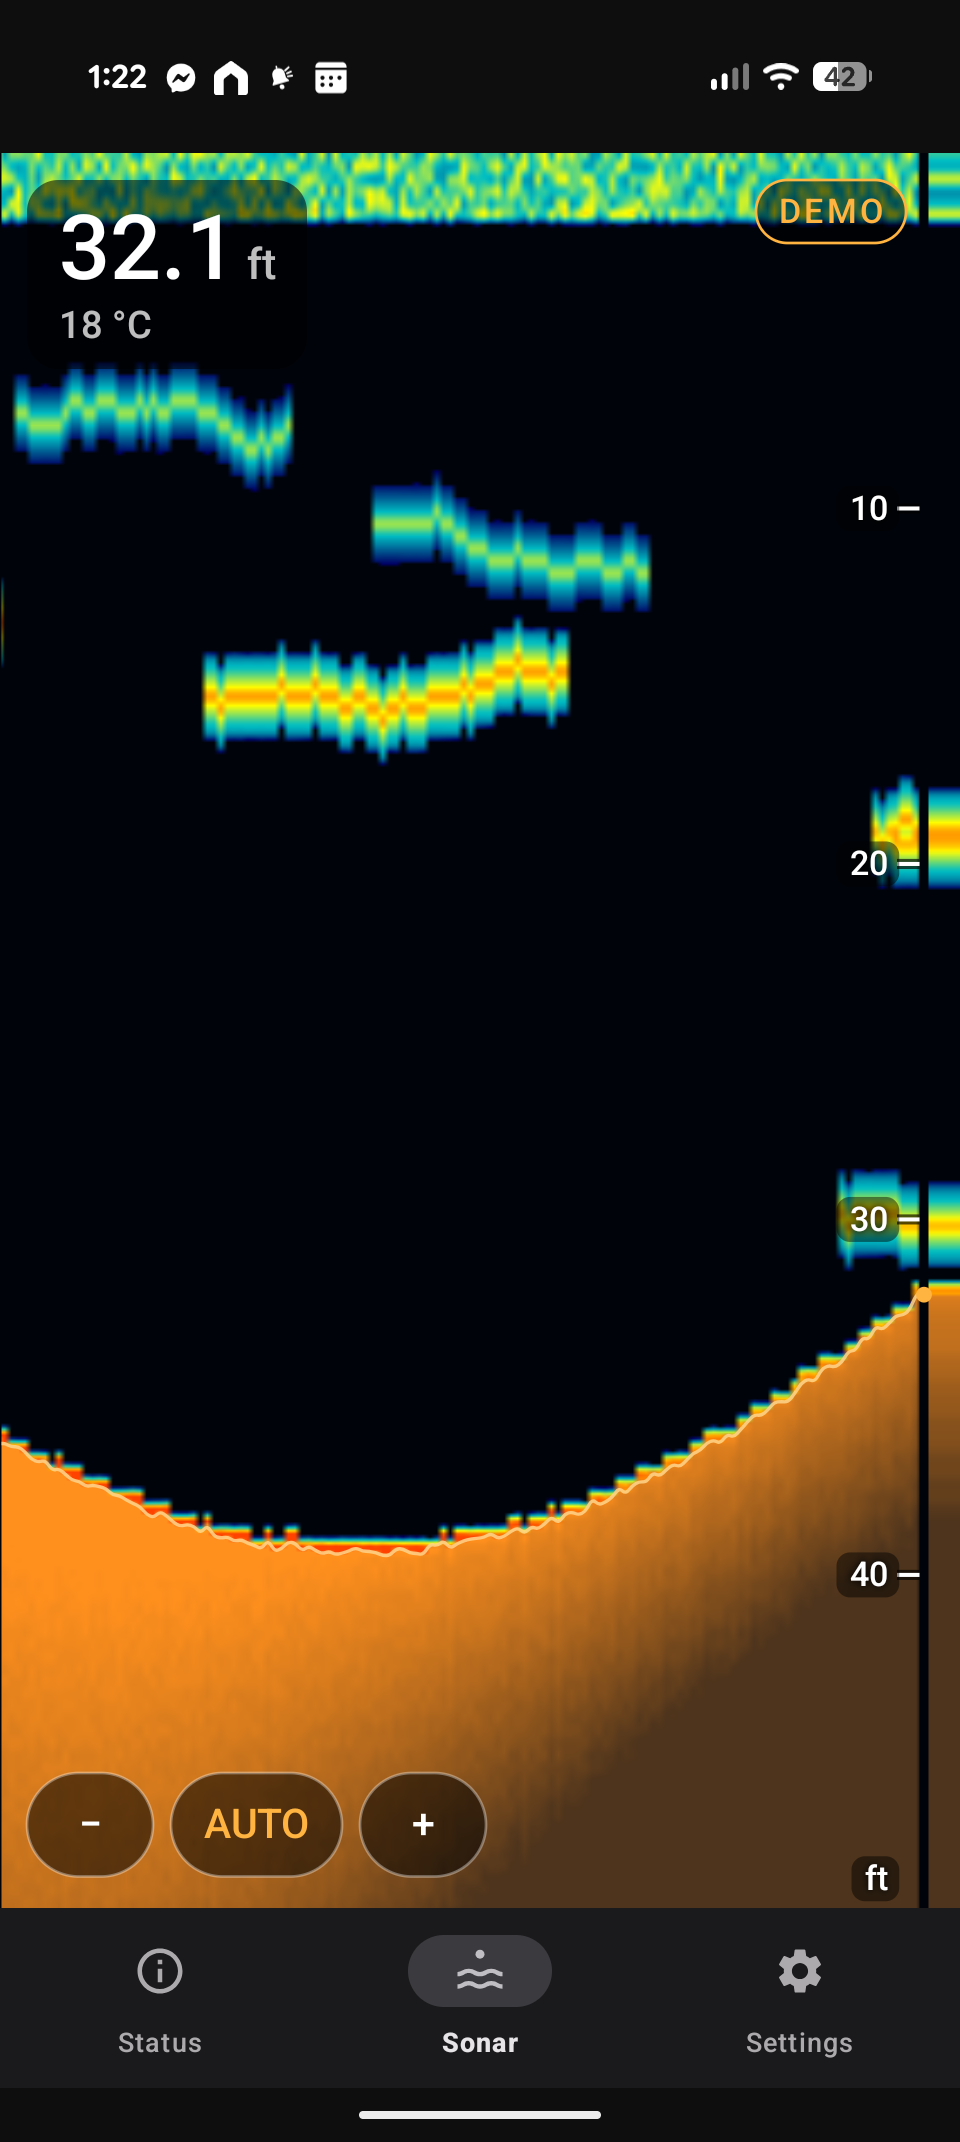
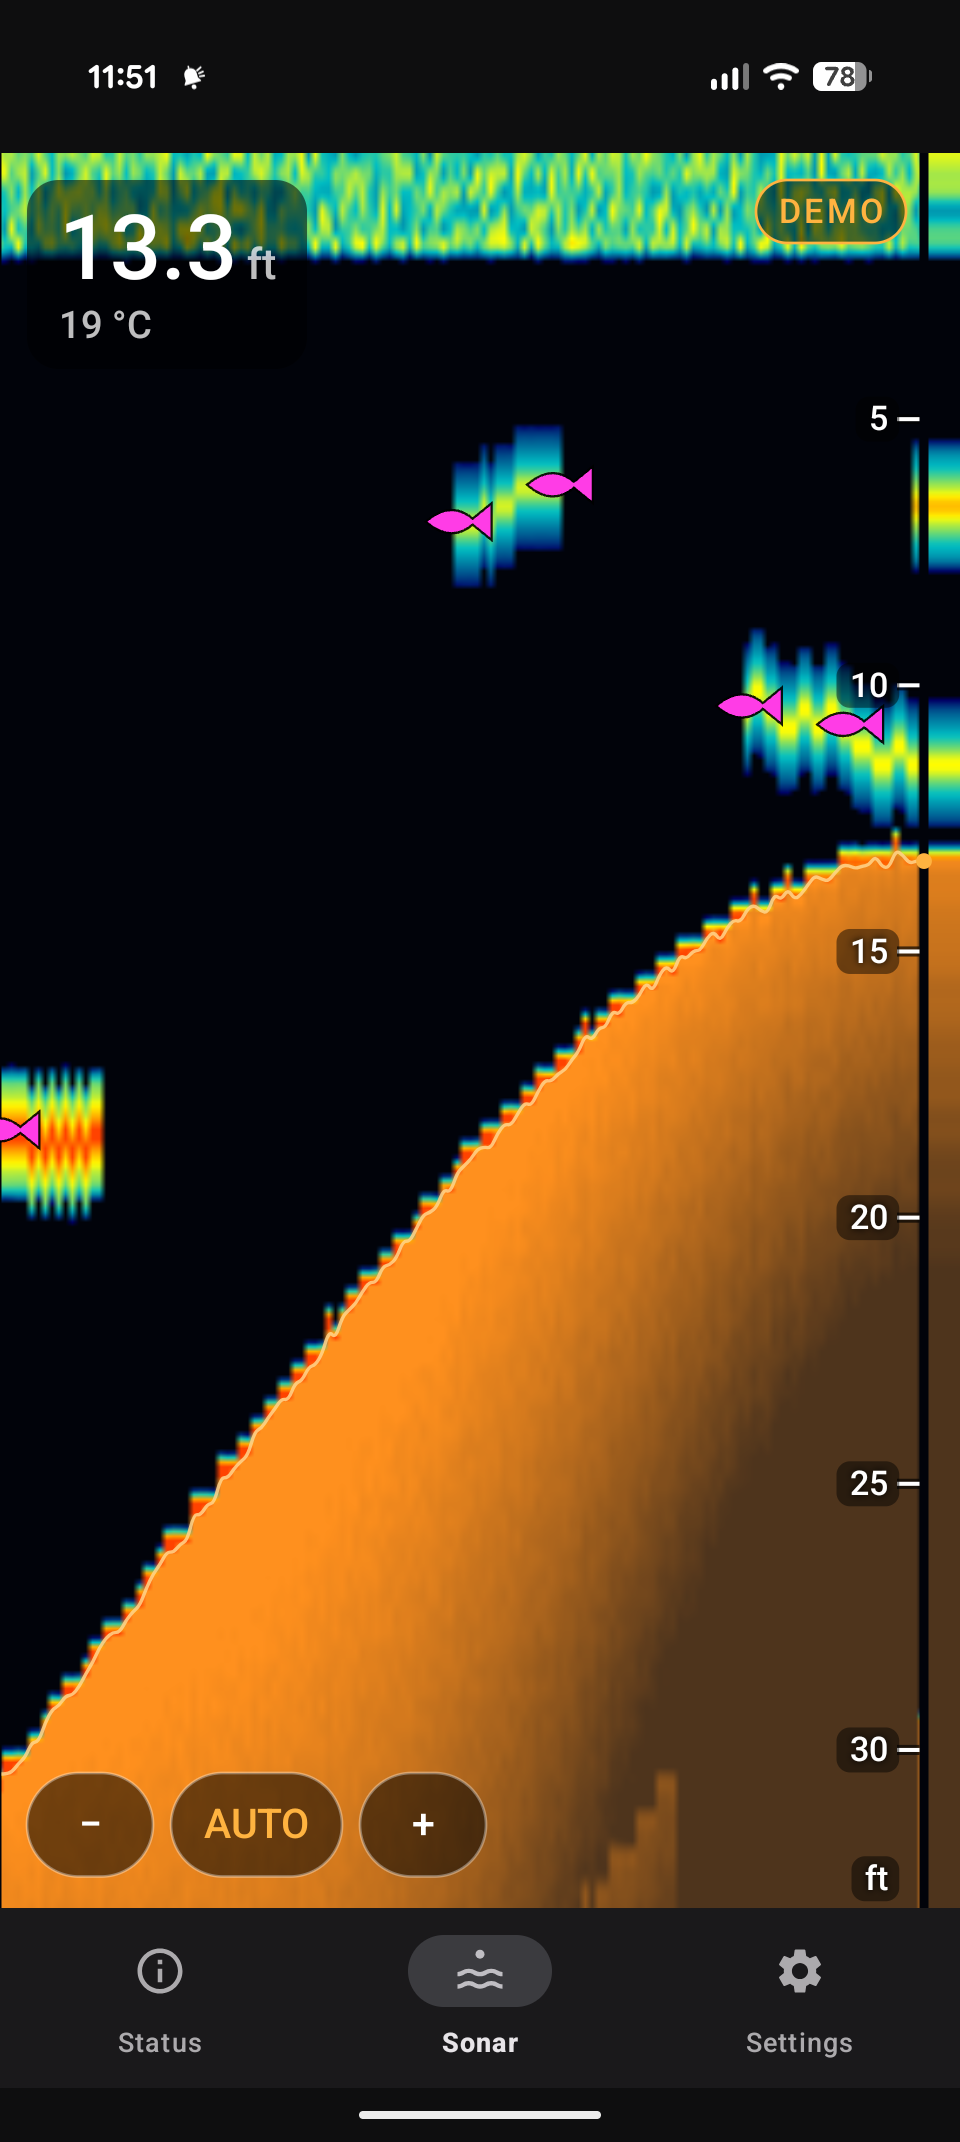
docs: refresh sonar screenshot (fish markers) + add status and settings shots

diff --git a/README.md b/README.md
@@ -10,8 +10,11 @@ a modern sonar display, and feeds live depth into the Navionics app — all on
 one phone, without giving up your internet connection.
 
 <p align="center">
-  <img src="docs/sonar-view.png" alt="SonarBridge sonar view: waterfall with bottom hardness, fish echoes, and depth scale" width="320">
+  <img src="docs/sonar-view.png" alt="Sonar view: fish-finder waterfall with fish markers, bottom, and depth scale" width="260">
+  <img src="docs/status-view.png" alt="Status view: live depth, temperature, battery and connection state" width="260">
+  <img src="docs/settings-view.png" alt="Settings: network, units, and sonar display controls" width="260">
 </p>
+<p align="center"><em>Sonar view · Status · Settings (shown in demo mode)</em></p>
 
 ## What it does
 